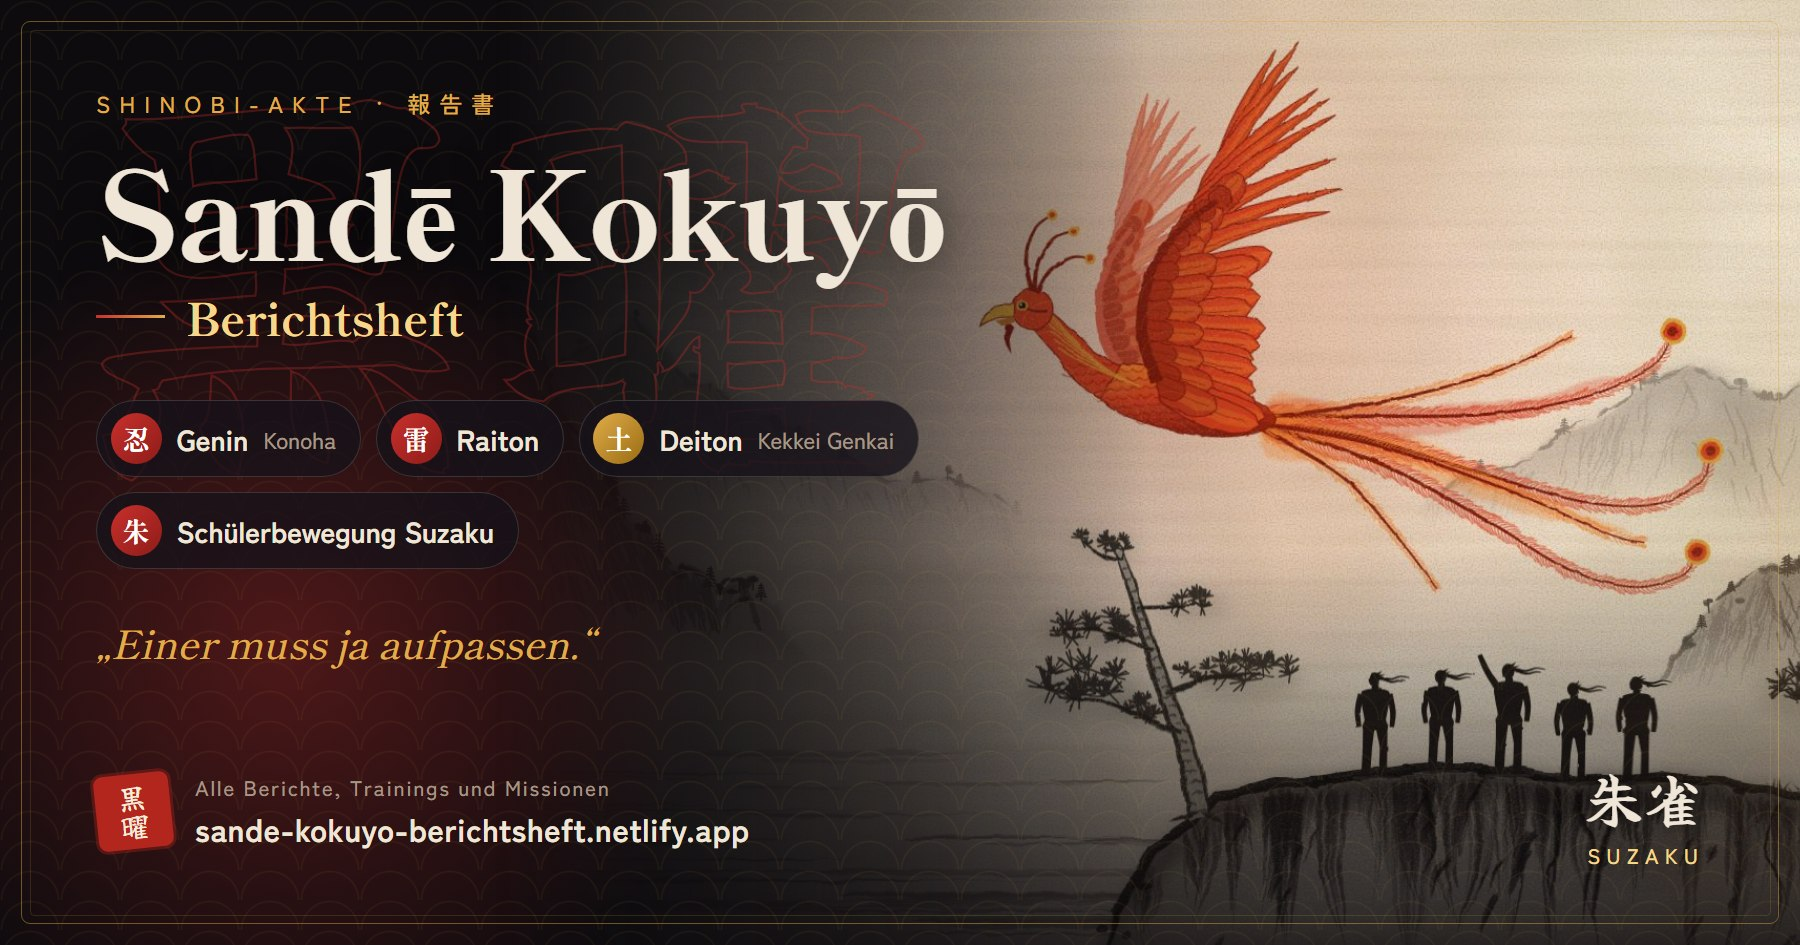
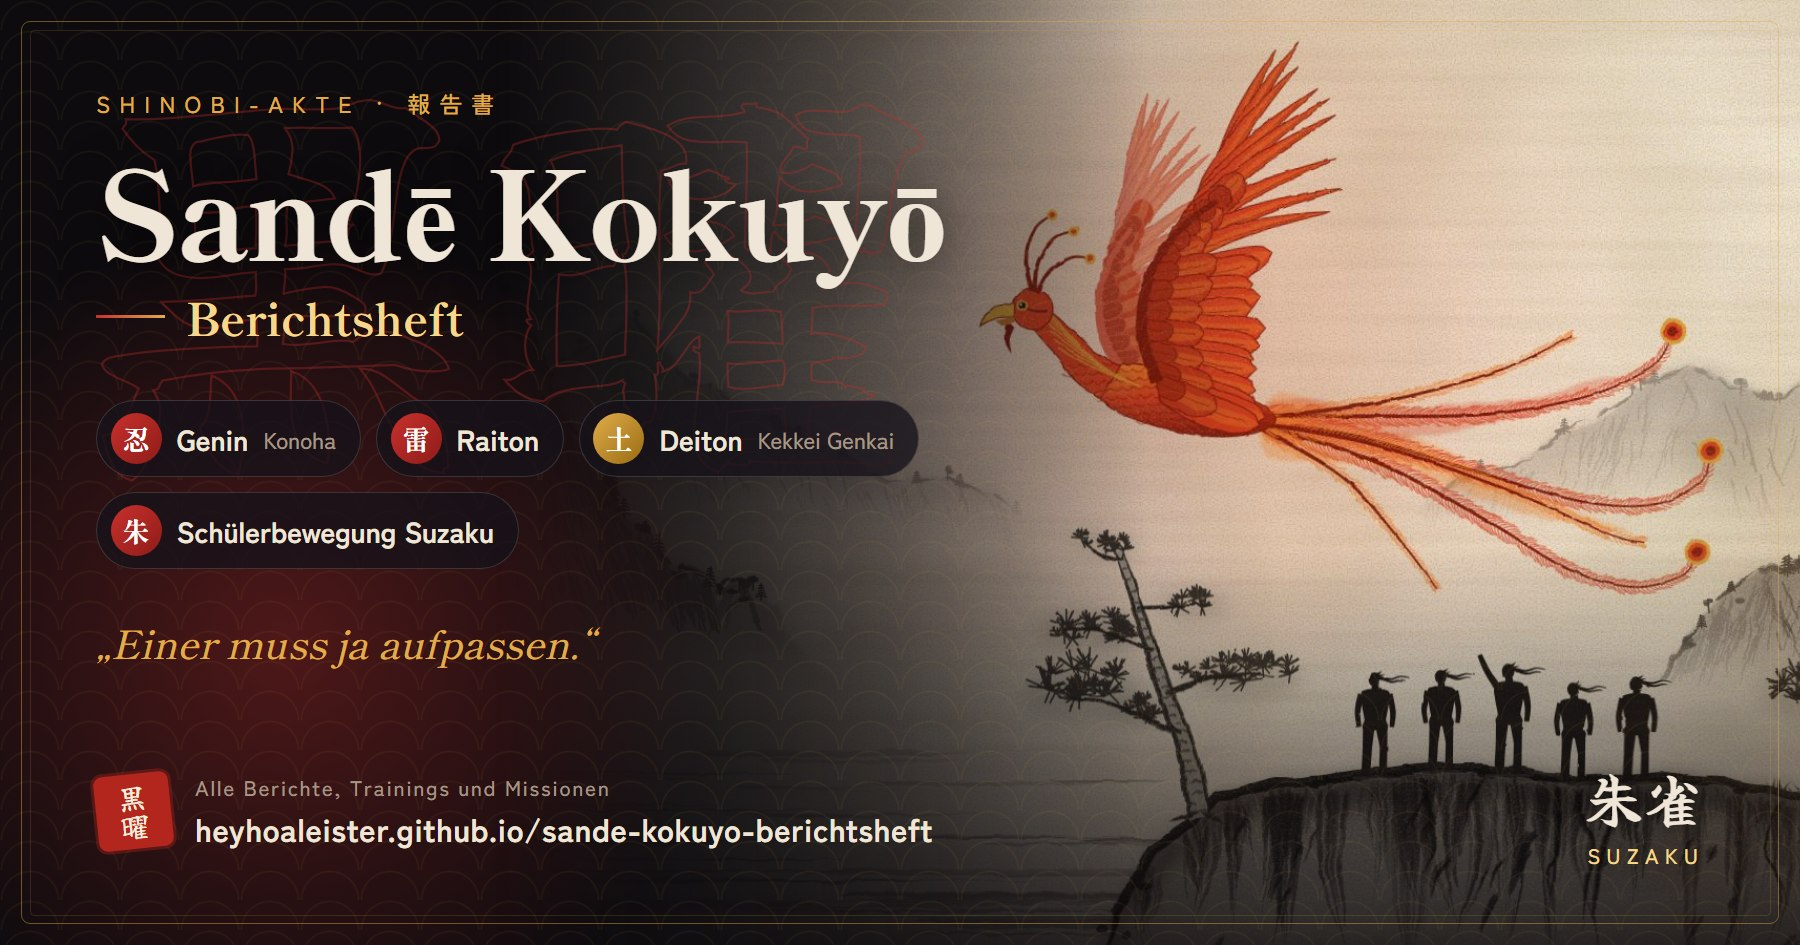
feat: Berichtsheft zieht auf GitHub Pages um

Changed region(s): [[0.0933, 0.8593, 0.5289, 0.9206]]

diff --git a/index.html b/index.html
@@ -11,8 +11,8 @@
   <meta property="og:site_name" content="Shinobi-Akte">
   <meta property="og:title" content="Berichtsheft – Sandē Kokuyō">
   <meta property="og:description" content="Genin aus Konoha · Raiton und Deiton · Schülerbewegung Suzaku. Alle Berichte, Trainings und Missionen.">
-  <meta property="og:url" content="https://sande-kokuyo-berichtsheft.netlify.app/">
-  <meta property="og:image" content="https://sande-kokuyo-berichtsheft.netlify.app/bilder/karte.jpg">
+  <meta property="og:url" content="https://heyhoaleister.github.io/sande-kokuyo-berichtsheft/">
+  <meta property="og:image" content="https://heyhoaleister.github.io/sande-kokuyo-berichtsheft/bilder/karte.jpg">
   <meta property="og:image:width" content="1800">
   <meta property="og:image:height" content="945">
   <meta property="og:image:alt" content="Charakterkarte von Sandē Kokuyō mit dem Suzaku-Phönix">

diff --git a/README.md b/README.md
@@ -3,6 +3,8 @@
 Das Berichtsheft von Sande Kokuyo für das Naruto-RP: Missionen, Training, Kämpfe und Dienst mit Wochenübersicht,
 Chakra-Kalender, Missionsrängen, Suche und Druckansicht.
 
+Online: https://heyhoaleister.github.io/sande-kokuyo-berichtsheft/
+
 ## Online stellen (GitHub Pages)
 
 1. Auf GitHub ein neues **öffentliches** Repository namens `sande-kokuyo-berichtsheft` anlegen.
